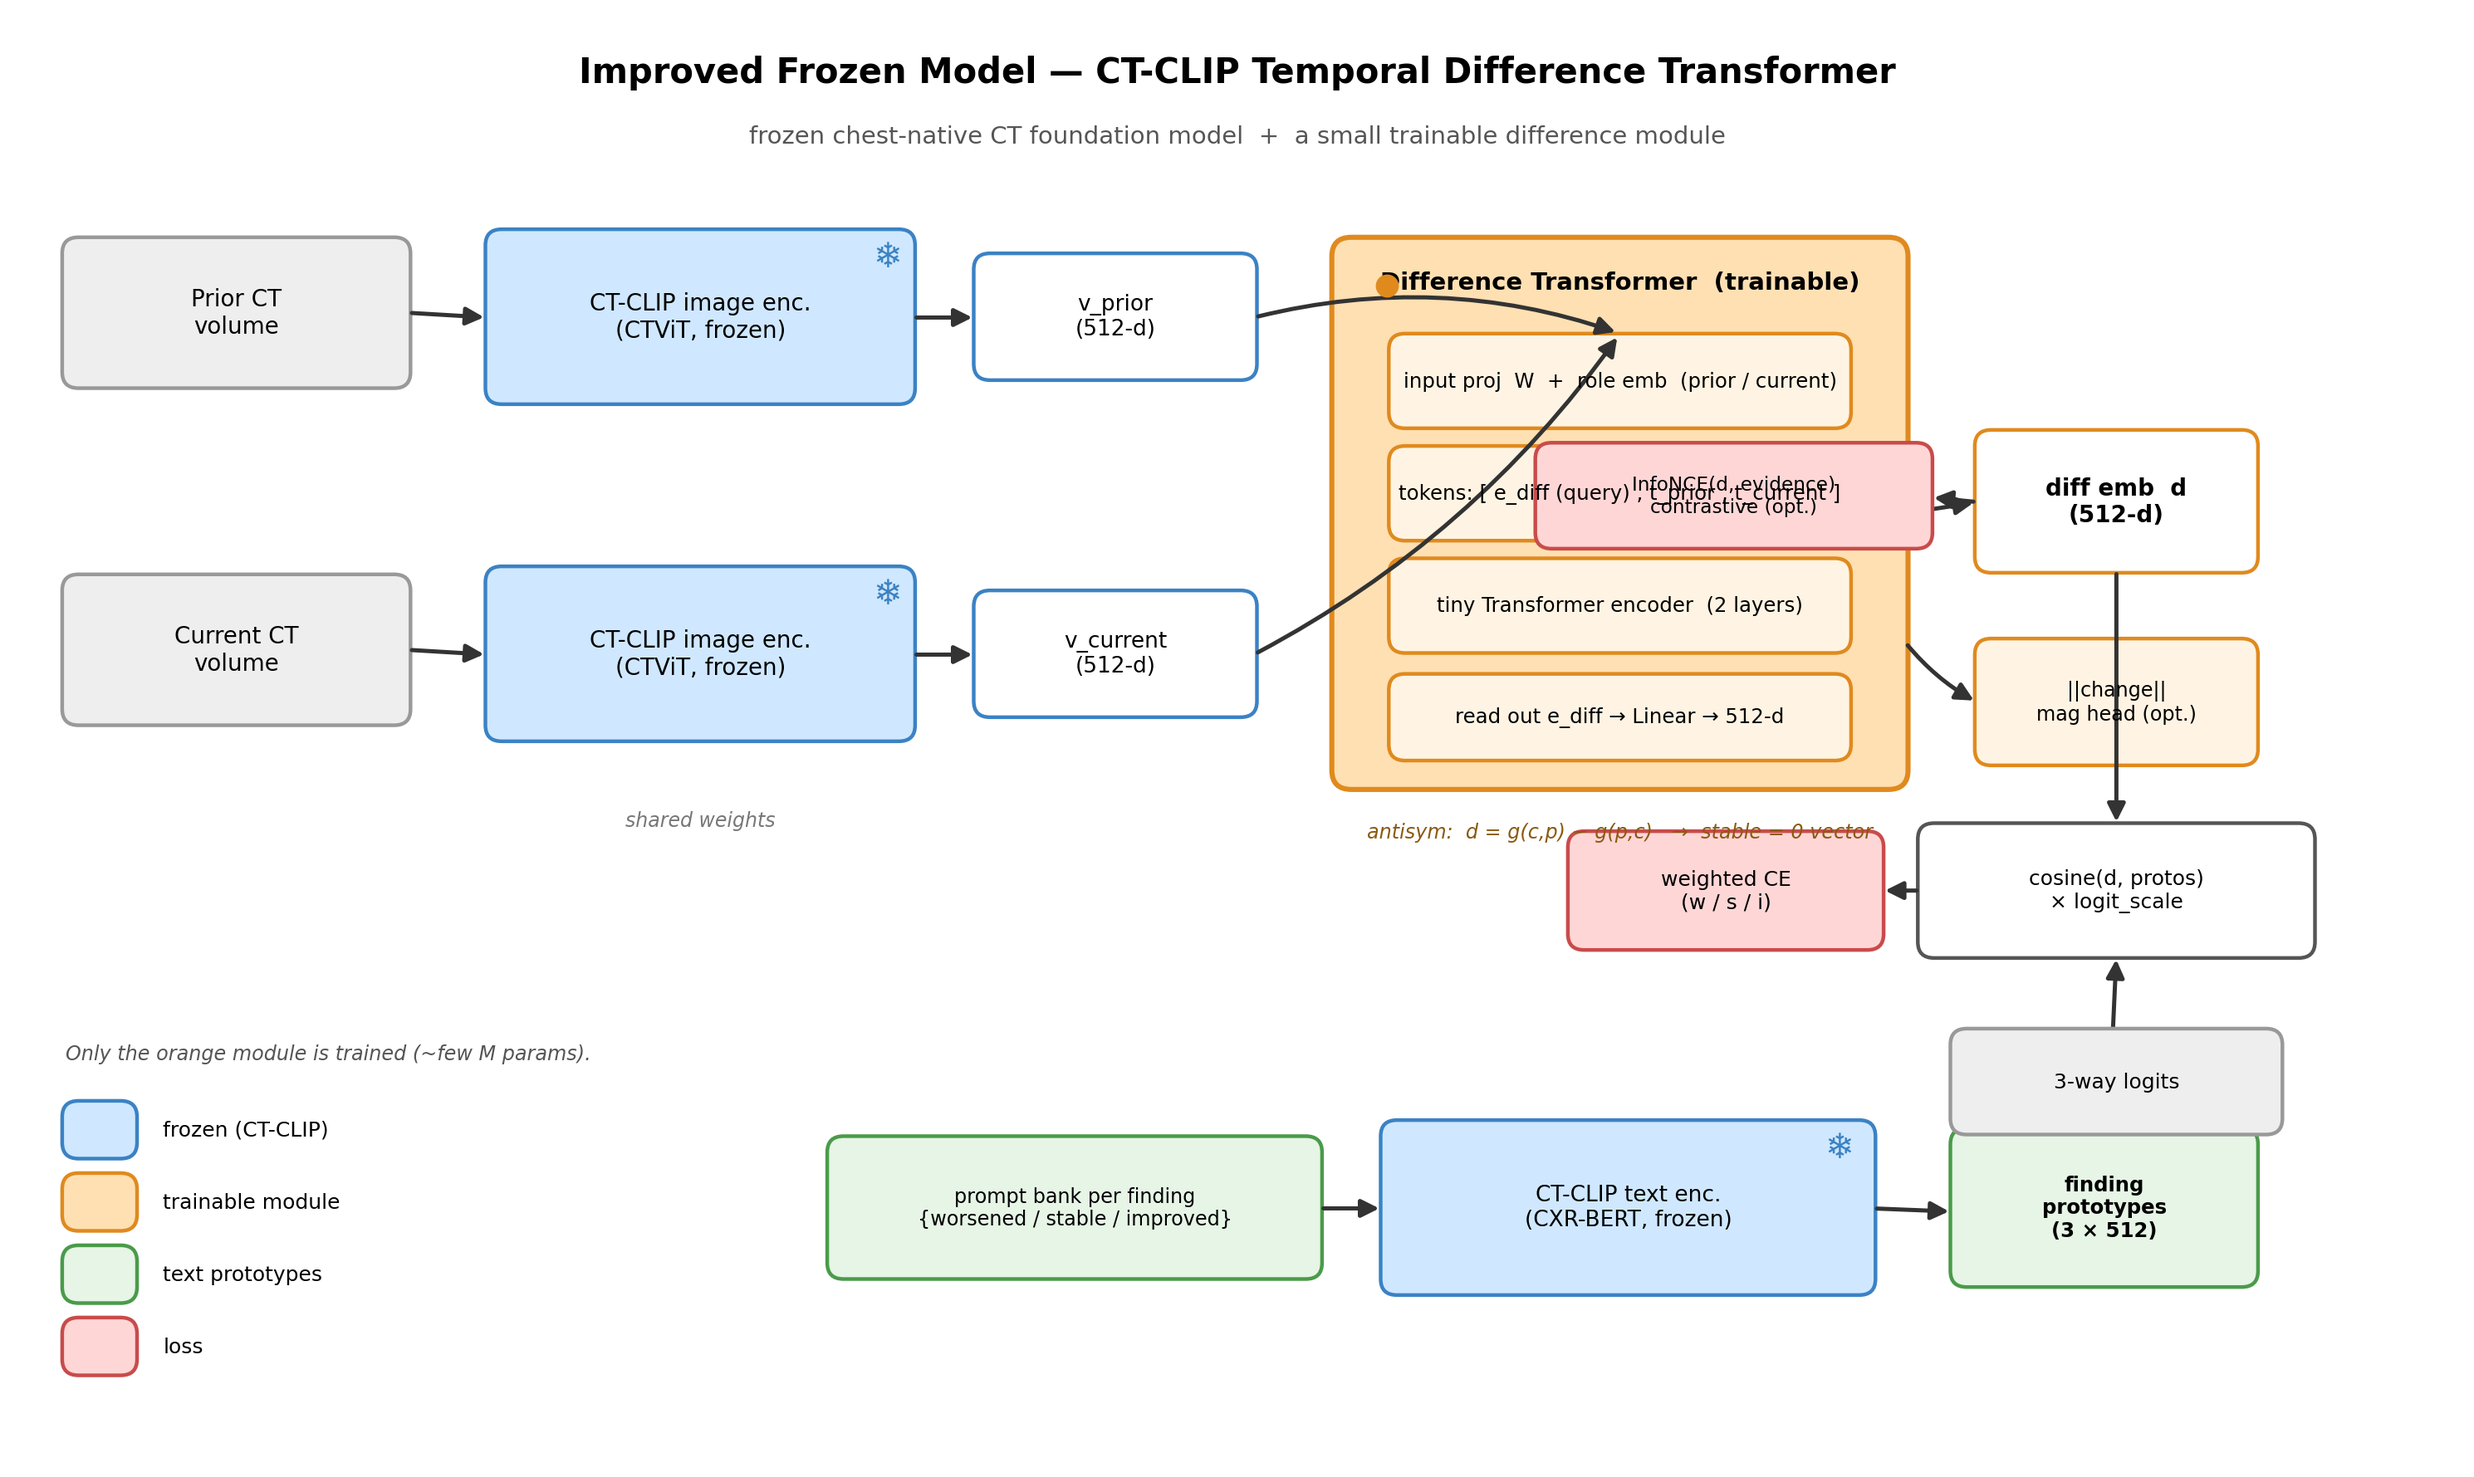
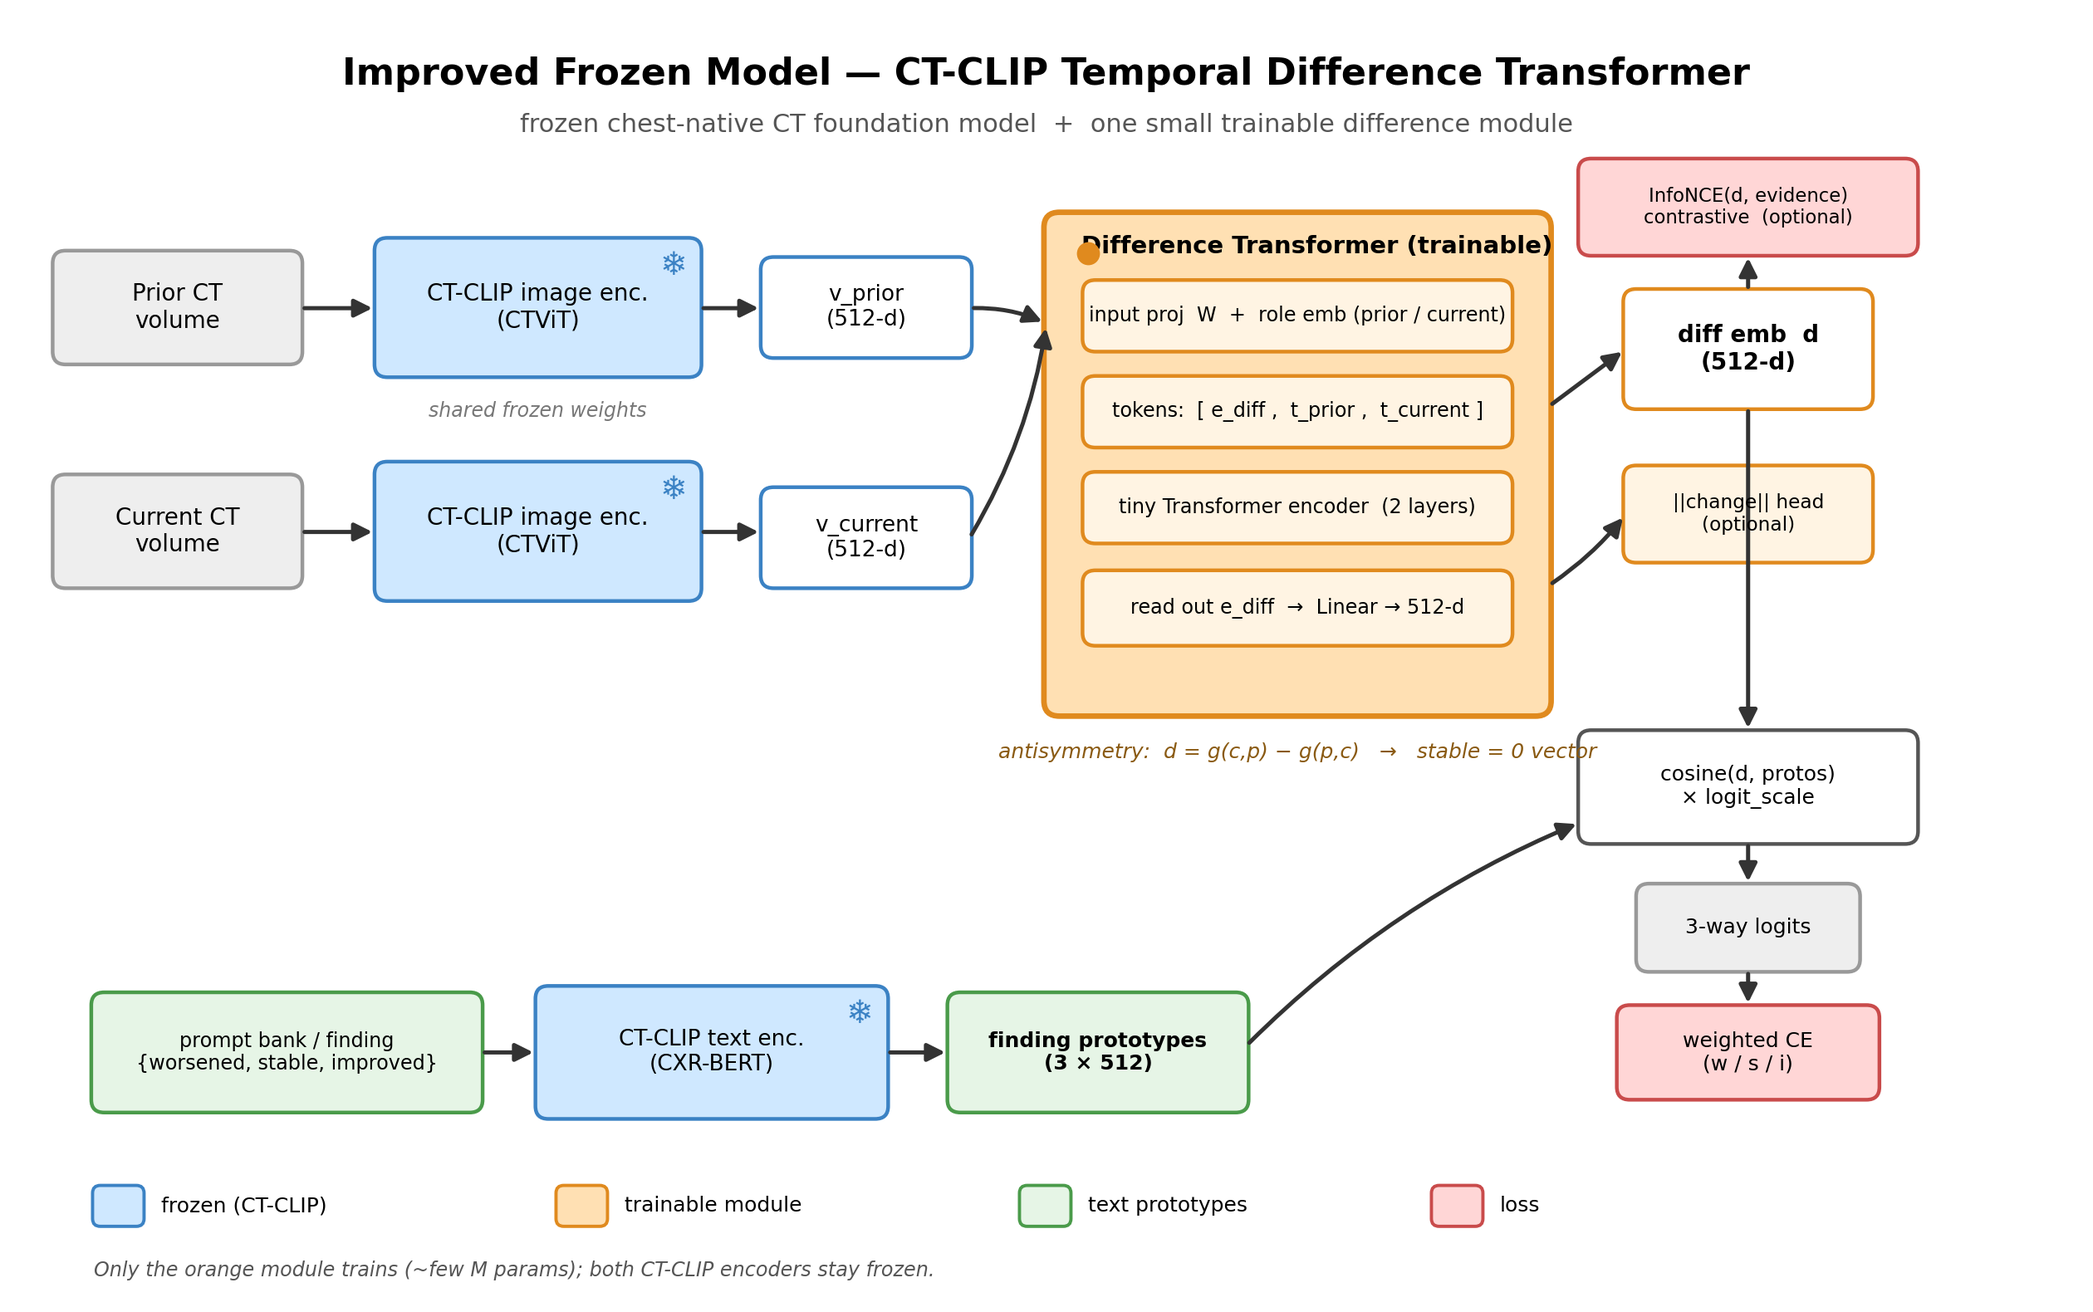
Improve architecture diagram layout (no overlapping boxes/text)

diff --git a/scripts/make_improved_frozen_diagram.py b/scripts/make_improved_frozen_diagram.py
@@ -3,6 +3,7 @@
 Render the "Improved Frozen Model" architecture (CT-CLIP Temporal Difference
 Transformer) exactly as implemented in notebooks/train_ctclip_temporal_colab.ipynb.
 
+Clean grid layout (no overlapping boxes/text).
 Output: docs/improved_frozen_model.png
 """
 import os
@@ -12,146 +13,129 @@ import matplotlib.pyplot as plt
 from matplotlib.patches import FancyBboxPatch, FancyArrowPatch
 
 # ---- palette ----
-FROZEN = "#cfe8ff"   # frozen (light blue)
-FROZEN_E = "#3b82c4"
-TRAIN = "#ffe0b3"    # trainable (orange)
-TRAIN_E = "#e08a1e"
-TEXT = "#e6f5e6"     # text / prototypes (green)
-TEXT_E = "#4a9b4a"
-LOSS = "#ffd6d6"     # losses (red)
-LOSS_E = "#c94b4b"
-GREY = "#eeeeee"
-GREY_E = "#999999"
+FROZEN, FROZEN_E = "#cfe8ff", "#3b82c4"     # frozen (blue)
+TRAIN,  TRAIN_E  = "#ffe0b3", "#e08a1e"     # trainable (orange)
+TEXT,   TEXT_E   = "#e6f5e6", "#4a9b4a"     # text / prototypes (green)
+LOSS,   LOSS_E   = "#ffd6d6", "#c94b4b"     # losses (red)
+GREY,   GREY_E   = "#eeeeee", "#999999"
+INNER            = "#fff4e3"                  # inner sub-box fill
 
-fig, ax = plt.subplots(figsize=(15, 9))
-ax.set_xlim(0, 15)
-ax.set_ylim(0, 9)
+fig, ax = plt.subplots(figsize=(16, 10))
+ax.set_xlim(0, 16)
+ax.set_ylim(0, 10)
 ax.axis("off")
 
 
-def box(x, y, w, h, text, fc, ec, fs=11, bold=False, style="round"):
-    p = FancyBboxPatch((x, y), w, h,
-                       boxstyle=f"round,pad=0.02,rounding_size=0.10" if style == "round"
-                       else "square,pad=0.02",
-                       linewidth=1.6, edgecolor=ec, facecolor=fc)
-    ax.add_patch(p)
+def box(x, y, w, h, text, fc, ec, fs=11, bold=False):
+    ax.add_patch(FancyBboxPatch((x, y), w, h,
+                 boxstyle="round,pad=0.02,rounding_size=0.10",
+                 linewidth=1.6, edgecolor=ec, facecolor=fc))
     ax.text(x + w / 2, y + h / 2, text, ha="center", va="center",
             fontsize=fs, fontweight="bold" if bold else "normal", zorder=5)
-    return (x + w / 2, y + h / 2)
 
 
-def arrow(p1, p2, color="#333333", lw=1.8, style="-|>", rad=0.0):
-    a = FancyArrowPatch(p1, p2, arrowstyle=style, mutation_scale=16,
-                        lw=lw, color=color,
-                        connectionstyle=f"arc3,rad={rad}")
-    ax.add_patch(a)
+def arrow(p1, p2, color="#333333", lw=1.8, rad=0.0):
+    ax.add_patch(FancyArrowPatch(p1, p2, arrowstyle="-|>", mutation_scale=16,
+                 lw=lw, color=color, connectionstyle=f"arc3,rad={rad}", zorder=4))
 
 
 def snow(x, y):
-    ax.text(x, y, "\u2744", fontsize=15, color=FROZEN_E, ha="center", va="center", zorder=6)
+    ax.text(x, y, "\u2744", fontsize=14, color=FROZEN_E, ha="center", va="center", zorder=6)
 
 
-def fire(x, y):
-    # small orange dot marker (emoji glyphs are unavailable in the default font)
-    ax.plot([x], [y], marker="o", markersize=9, color=TRAIN_E, zorder=6)
+# ================= TITLE =================
+ax.text(8, 9.55, "Improved Frozen Model \u2014 CT-CLIP Temporal Difference Transformer",
+        ha="center", va="center", fontsize=16, fontweight="bold")
+ax.text(8, 9.15, "frozen chest-native CT foundation model  +  one small trainable difference module",
+        ha="center", va="center", fontsize=11, color="#555555")
 
+# ================= TOP FLOW: inputs -> frozen enc -> pooled -> diff module =================
+# --- inputs ---
+box(0.3, 7.30, 1.9, 0.85, "Prior CT\nvolume", GREY, GREY_E, fs=10)
+box(0.3, 5.55, 1.9, 0.85, "Current CT\nvolume", GREY, GREY_E, fs=10)
 
+# --- frozen image encoders (shared) ---
+box(2.8, 7.20, 2.5, 1.05, "CT-CLIP image enc.\n(CTViT)", FROZEN, FROZEN_E, fs=10)
+snow(5.10, 8.05)
+box(2.8, 5.45, 2.5, 1.05, "CT-CLIP image enc.\n(CTViT)", FROZEN, FROZEN_E, fs=10)
+snow(5.10, 6.30)
+ax.text(4.05, 6.87, "shared frozen weights", ha="center", fontsize=8.5,
+        style="italic", color="#777")
+arrow((2.2, 7.72), (2.8, 7.72))
+arrow((2.2, 5.97), (2.8, 5.97))
 
-# ---- title ----
-ax.text(7.5, 8.65, "Improved Frozen Model \u2014 CT-CLIP Temporal Difference Transformer",
-        ha="center", va="center", fontsize=15, fontweight="bold")
-ax.text(7.5, 8.25, "frozen chest-native CT foundation model  +  a small trainable difference module",
-        ha="center", va="center", fontsize=10.5, color="#555555")
+# --- pooled vectors ---
+box(5.8, 7.35, 1.6, 0.75, "v_prior\n(512-d)", "#ffffff", FROZEN_E, fs=9.5)
+box(5.8, 5.55, 1.6, 0.75, "v_current\n(512-d)", "#ffffff", FROZEN_E, fs=9.5)
+arrow((5.3, 7.72), (5.8, 7.72))
+arrow((5.3, 5.97), (5.8, 5.97))
 
-# ============ INPUTS ============
-box(0.3, 6.7, 2.1, 0.9, "Prior CT\nvolume", GREY, GREY_E, fs=10)
-box(0.3, 4.6, 2.1, 0.9, "Current CT\nvolume", GREY, GREY_E, fs=10)
-
-# ============ FROZEN CT-CLIP IMAGE ENCODER (shared) ============
-box(2.9, 6.6, 2.6, 1.05, "CT-CLIP image enc.\n(CTViT, frozen)", FROZEN, FROZEN_E, fs=10)
-snow(5.35, 7.5)
-box(2.9, 4.5, 2.6, 1.05, "CT-CLIP image enc.\n(CTViT, frozen)", FROZEN, FROZEN_E, fs=10)
-snow(5.35, 5.4)
-ax.text(4.2, 3.95, "shared weights", ha="center", fontsize=8.5, style="italic", color="#777")
-
-arrow((2.4, 7.15), (2.9, 7.12))
-arrow((2.4, 5.05), (2.9, 5.02))
-
-# pooled vectors
-box(5.9, 6.75, 1.7, 0.75, "v_prior\n(512-d)", "#ffffff", FROZEN_E, fs=9.5)
-box(5.9, 4.65, 1.7, 0.75, "v_current\n(512-d)", "#ffffff", FROZEN_E, fs=9.5)
-arrow((5.5, 7.12), (5.9, 7.12))
-arrow((5.5, 5.02), (5.9, 5.02))
-
-# ============ TRAINABLE DIFFERENCE TRANSFORMER ============
-tx, ty, tw, th = 8.1, 4.2, 3.5, 3.4
-p = FancyBboxPatch((tx, ty), tw, th, boxstyle="round,pad=0.02,rounding_size=0.12",
-                   linewidth=2.2, edgecolor=TRAIN_E, facecolor=TRAIN)
-ax.add_patch(p)
-fire(tx + 0.32, ty + th - 0.28)
-ax.text(tx + tw / 2, ty + th - 0.30, "Difference Transformer  (trainable)",
+# --- trainable Difference Transformer (big box) ---
+TX, TY, TW, TH = 8.0, 4.55, 3.9, 3.9
+ax.add_patch(FancyBboxPatch((TX, TY), TW, TH,
+             boxstyle="round,pad=0.02,rounding_size=0.12",
+             linewidth=2.4, edgecolor=TRAIN_E, facecolor=TRAIN))
+ax.plot([TX + 0.32], [TY + TH - 0.30], marker="o", markersize=9, color=TRAIN_E, zorder=6)
+ax.text(TX + TW / 2 + 0.15, TY + TH - 0.30, "Difference Transformer (trainable)",
         ha="center", fontsize=10.5, fontweight="bold")
 
-# internal tokens
-box(tx + 0.35, ty + 2.25, tw - 0.7, 0.55,
-    "input proj  W  +  role emb  (prior / current)", "#fff4e3", TRAIN_E, fs=8.8)
-box(tx + 0.35, ty + 1.55, tw - 0.7, 0.55,
-    "tokens: [ e_diff (query) , t_prior , t_current ]", "#fff4e3", TRAIN_E, fs=8.8)
-box(tx + 0.35, ty + 0.85, tw - 0.7, 0.55,
-    "tiny Transformer encoder  (2 layers)", "#fff4e3", TRAIN_E, fs=8.8)
-box(tx + 0.35, ty + 0.18, tw - 0.7, 0.5,
-    "read out e_diff \u2192 Linear \u2192 512-d", "#fff4e3", TRAIN_E, fs=8.8)
+ix, iw = TX + 0.30, TW - 0.60
+box(ix, TY + 2.85, iw, 0.52, "input proj  W  +  role emb (prior / current)", INNER, TRAIN_E, fs=8.6)
+box(ix, TY + 2.10, iw, 0.52, "tokens:  [ e_diff ,  t_prior ,  t_current ]", INNER, TRAIN_E, fs=8.6)
+box(ix, TY + 1.35, iw, 0.52, "tiny Transformer encoder  (2 layers)", INNER, TRAIN_E, fs=8.6)
+box(ix, TY + 0.55, iw, 0.55, "read out e_diff  \u2192  Linear \u2192 512-d", INNER, TRAIN_E, fs=8.6)
 
-arrow((7.6, 7.12), (tx + tw / 2, ty + 2.82), rad=-0.15)
-arrow((7.6, 5.02), (tx + tw / 2, ty + 2.82), rad=0.12)
+arrow((7.4, 7.72), (TX, TY + TH - 0.85), rad=-0.12)
+arrow((7.4, 5.92), (TX, TY + TH - 0.85), rad=0.10)
 
-# antisymmetry note
-ax.text(tx + tw / 2, ty - 0.32,
-        "antisym:  d = g(c,p) \u2212 g(p,c)   \u2192  stable = 0 vector",
-        ha="center", fontsize=8.6, style="italic", color="#8a5a12")
+# antisymmetry note (below the box, clear of everything)
+ax.text(TX + TW / 2, TY - 0.35,
+        "antisymmetry:  d = g(c,p) \u2212 g(p,c)   \u2192   stable = 0 vector",
+        ha="center", fontsize=9, style="italic", color="#8a5a12")
 
-# ============ difference embedding d ============
-box(12.05, 5.55, 1.7, 0.85, "diff emb  d\n(512-d)", "#ffffff", TRAIN_E, fs=10, bold=True)
-arrow((tx + tw, ty + 1.7), (12.05, 5.97))
+# ================= RIGHT: diff emb d, magnitude, contrastive =================
+box(12.5, 6.95, 1.9, 0.9, "diff emb  d\n(512-d)", "#ffffff", TRAIN_E, fs=10, bold=True)
+arrow((TX + TW, TY + 2.4), (12.5, 7.40))
 
-# magnitude head (optional)
-box(12.05, 4.35, 1.7, 0.75, "||change||\nmag head (opt.)", "#fff4e3", TRAIN_E, fs=8.6)
-arrow((tx + tw, ty + 0.9), (12.05, 4.72), rad=0.1)
+# optional contrastive (above d)
+box(12.15, 8.15, 2.6, 0.72, "InfoNCE(d, evidence)\ncontrastive  (optional)", LOSS, LOSS_E, fs=8.2)
+arrow((13.45, 7.85), (13.45, 8.15))
 
-# ============ FROZEN TEXT TOWER -> PROTOTYPES ============
-box(8.4, 1.05, 3.0, 1.05, "CT-CLIP text enc.\n(CXR-BERT, frozen)", FROZEN, FROZEN_E, fs=9.5)
-snow(11.2, 1.95)
-box(5.0, 1.15, 3.0, 0.85,
-    "prompt bank per finding\n{worsened / stable / improved}", TEXT, TEXT_E, fs=8.6)
-arrow((8.0, 1.57), (8.4, 1.57))
-box(11.9, 1.1, 1.85, 0.95, "finding\nprototypes\n(3 \u00d7 512)", TEXT, TEXT_E, fs=8.8, bold=True)
-arrow((11.4, 1.57), (11.9, 1.55))
+# optional magnitude head (below d)
+box(12.5, 5.75, 1.9, 0.72, "||change|| head\n(optional)", INNER, TRAIN_E, fs=8.4)
+arrow((TX + TW, TY + 1.0), (12.5, 6.11), rad=0.08)
 
-# ============ COSINE + LOSS ============
-box(11.7, 3.15, 2.4, 0.8, "cosine(d, protos)\n\u00d7 logit_scale", "#ffffff", "#555", fs=9)
-arrow((12.9, 5.55), (12.9, 3.95))                       # d down
-arrow((12.85, 2.05), (12.9, 3.15))                      # protos up
-box(11.9, 2.05, 2.0, 0.62, "3-way logits", GREY, GREY_E, fs=9)  # (visual anchor)
+# ================= SUPERVISION: cosine -> logits -> CE (vertical under d) =================
+box(12.15, 3.55, 2.6, 0.85, "cosine(d, protos)\n\u00d7 logit_scale", "#ffffff", "#555555", fs=9)
+arrow((13.45, 6.95), (13.45, 4.40))                     # d down into cosine
+box(12.6, 2.55, 1.7, 0.65, "3-way logits", GREY, GREY_E, fs=9)
+arrow((13.45, 3.55), (13.45, 3.20))
+box(12.45, 1.55, 2.0, 0.70, "weighted CE\n(w / s / i)", LOSS, LOSS_E, fs=9)
+arrow((13.45, 2.55), (13.45, 2.25))
 
-# main loss
-box(9.55, 3.2, 1.9, 0.7, "weighted CE\n(w / s / i)", LOSS, LOSS_E, fs=9)
-arrow((11.7, 3.55), (11.45, 3.55))
+# ================= TEXT PATH (bottom-left) -> prototypes -> cosine =================
+box(0.6, 1.45, 3.0, 0.90, "prompt bank / finding\n{worsened, stable, improved}", TEXT, TEXT_E, fs=8.6)
+box(4.05, 1.40, 2.7, 1.00, "CT-CLIP text enc.\n(CXR-BERT)", FROZEN, FROZEN_E, fs=9.5)
+snow(6.55, 2.20)
+box(7.25, 1.45, 2.3, 0.90, "finding prototypes\n(3 \u00d7 512)", TEXT, TEXT_E, fs=9, bold=True)
+arrow((3.6, 1.90), (4.05, 1.90))
+arrow((6.75, 1.90), (7.25, 1.90))
+arrow((9.55, 1.95), (12.15, 3.70), rad=-0.10)           # prototypes -> cosine
 
-# contrastive aux (optional)
-box(9.35, 5.7, 2.4, 0.62, "InfoNCE(d, evidence)\ncontrastive (opt.)", LOSS, LOSS_E, fs=8.4)
-arrow((12.05, 5.97), (11.75, 6.0))
-
-# ============ LEGEND ============
-lx, ly = 0.3, 1.15
-box(lx, ly + 0.75, 0.42, 0.32, "", FROZEN, FROZEN_E); ax.text(lx + 0.6, ly + 0.91, "frozen (CT-CLIP)", fontsize=9, va="center")
-box(lx, ly + 0.30, 0.42, 0.32, "", TRAIN, TRAIN_E); ax.text(lx + 0.6, ly + 0.46, "trainable module", fontsize=9, va="center")
-box(lx, ly - 0.15, 0.42, 0.32, "", TEXT, TEXT_E); ax.text(lx + 0.6, ly + 0.01, "text prototypes", fontsize=9, va="center")
-box(lx, ly - 0.60, 0.42, 0.32, "", LOSS, LOSS_E); ax.text(lx + 0.6, ly - 0.44, "loss", fontsize=9, va="center")
-ax.text(lx, ly + 1.35, "Only the orange module is trained (~few M params).",
+# ================= LEGEND (very bottom row) =================
+ly = 0.55
+def legend(x, fc, ec, label):
+    ax.add_patch(FancyBboxPatch((x, ly), 0.38, 0.30, boxstyle="round,pad=0.01,rounding_size=0.06",
+                 linewidth=1.4, edgecolor=ec, facecolor=fc))
+    ax.text(x + 0.52, ly + 0.15, label, fontsize=9, va="center")
+legend(0.6, FROZEN, FROZEN_E, "frozen (CT-CLIP)")
+legend(4.2, TRAIN, TRAIN_E, "trainable module")
+legend(7.8, TEXT, TEXT_E, "text prototypes")
+legend(11.0, LOSS, LOSS_E, "loss")
+ax.text(0.6, 0.15, "Only the orange module trains (~few M params); both CT-CLIP encoders stay frozen.",
         fontsize=8.6, style="italic", color="#555")
 
-plt.tight_layout()
-out = os.path.join(os.path.dirname(os.path.dirname(os.path.abspath(__file__))),
-                   "docs", "improved_frozen_model.png")
-plt.savefig(out, dpi=200, bbox_inches="tight", facecolor="white")
-print("wrote", out)
+plt.savefig(os.path.join(os.path.dirname(os.path.dirname(os.path.abspath(__file__))),
+            "docs", "improved_frozen_model.png"),
+            dpi=200, bbox_inches="tight", facecolor="white")
+print("wrote docs/improved_frozen_model.png")
